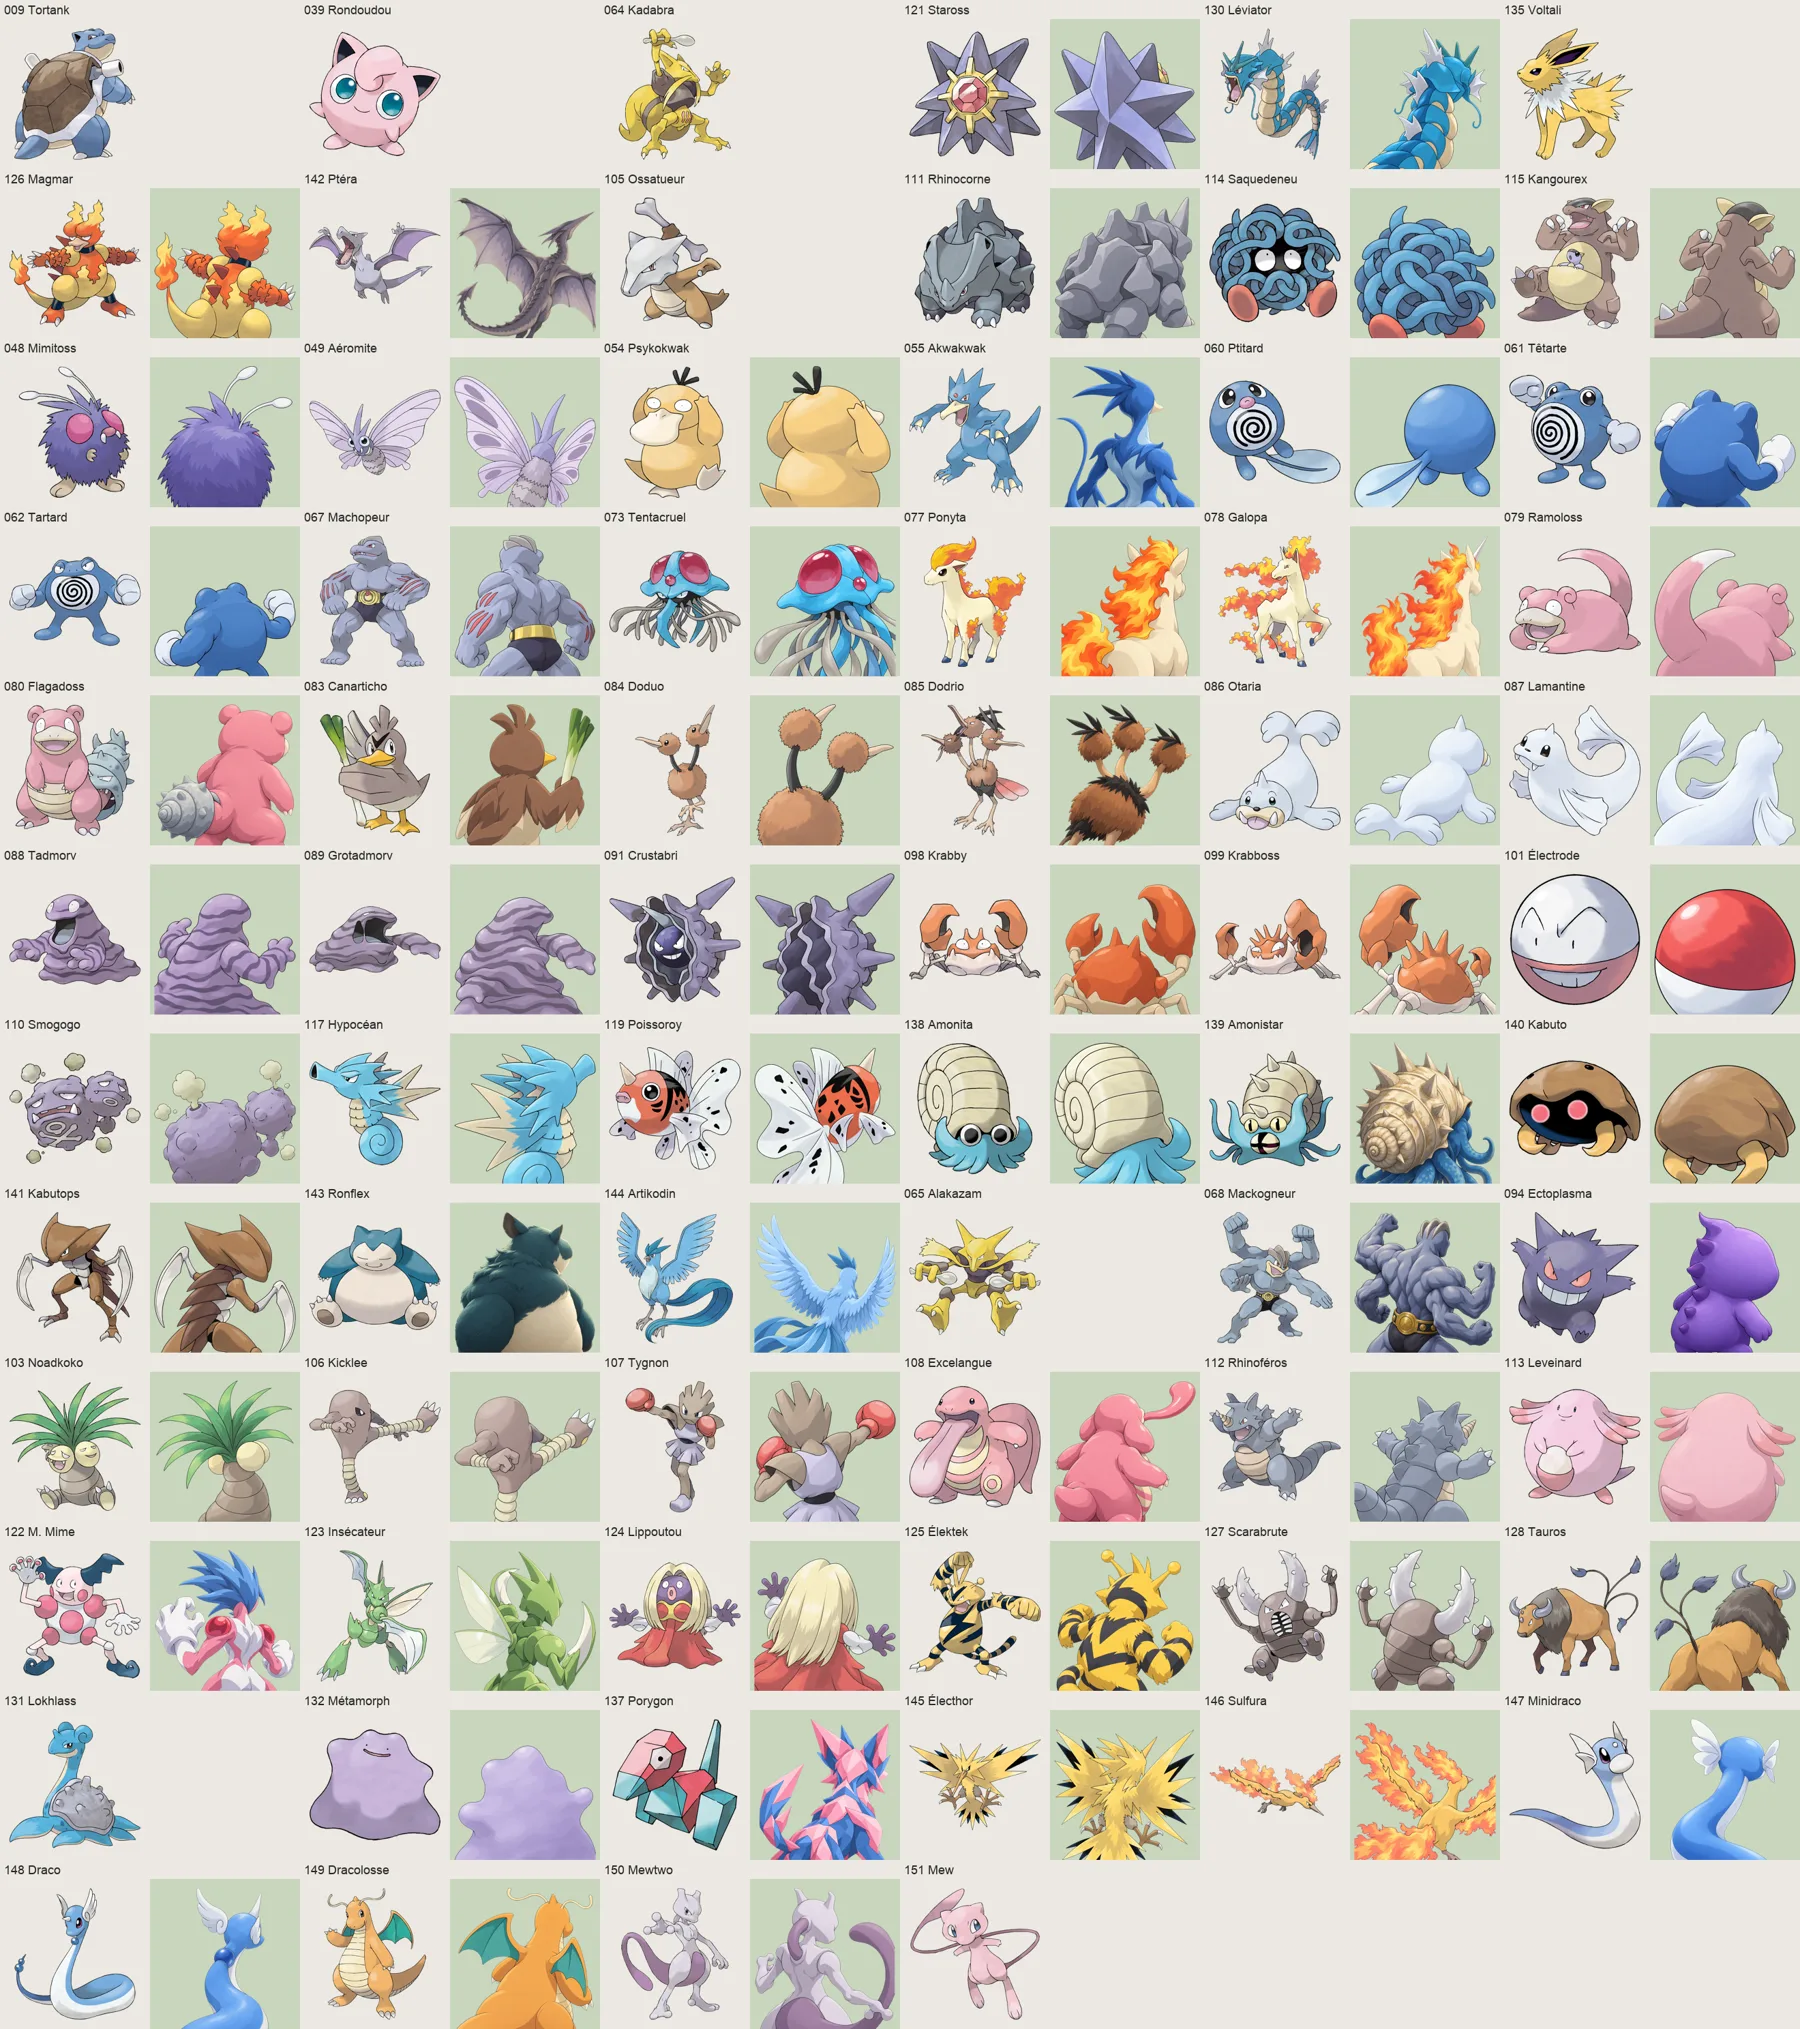
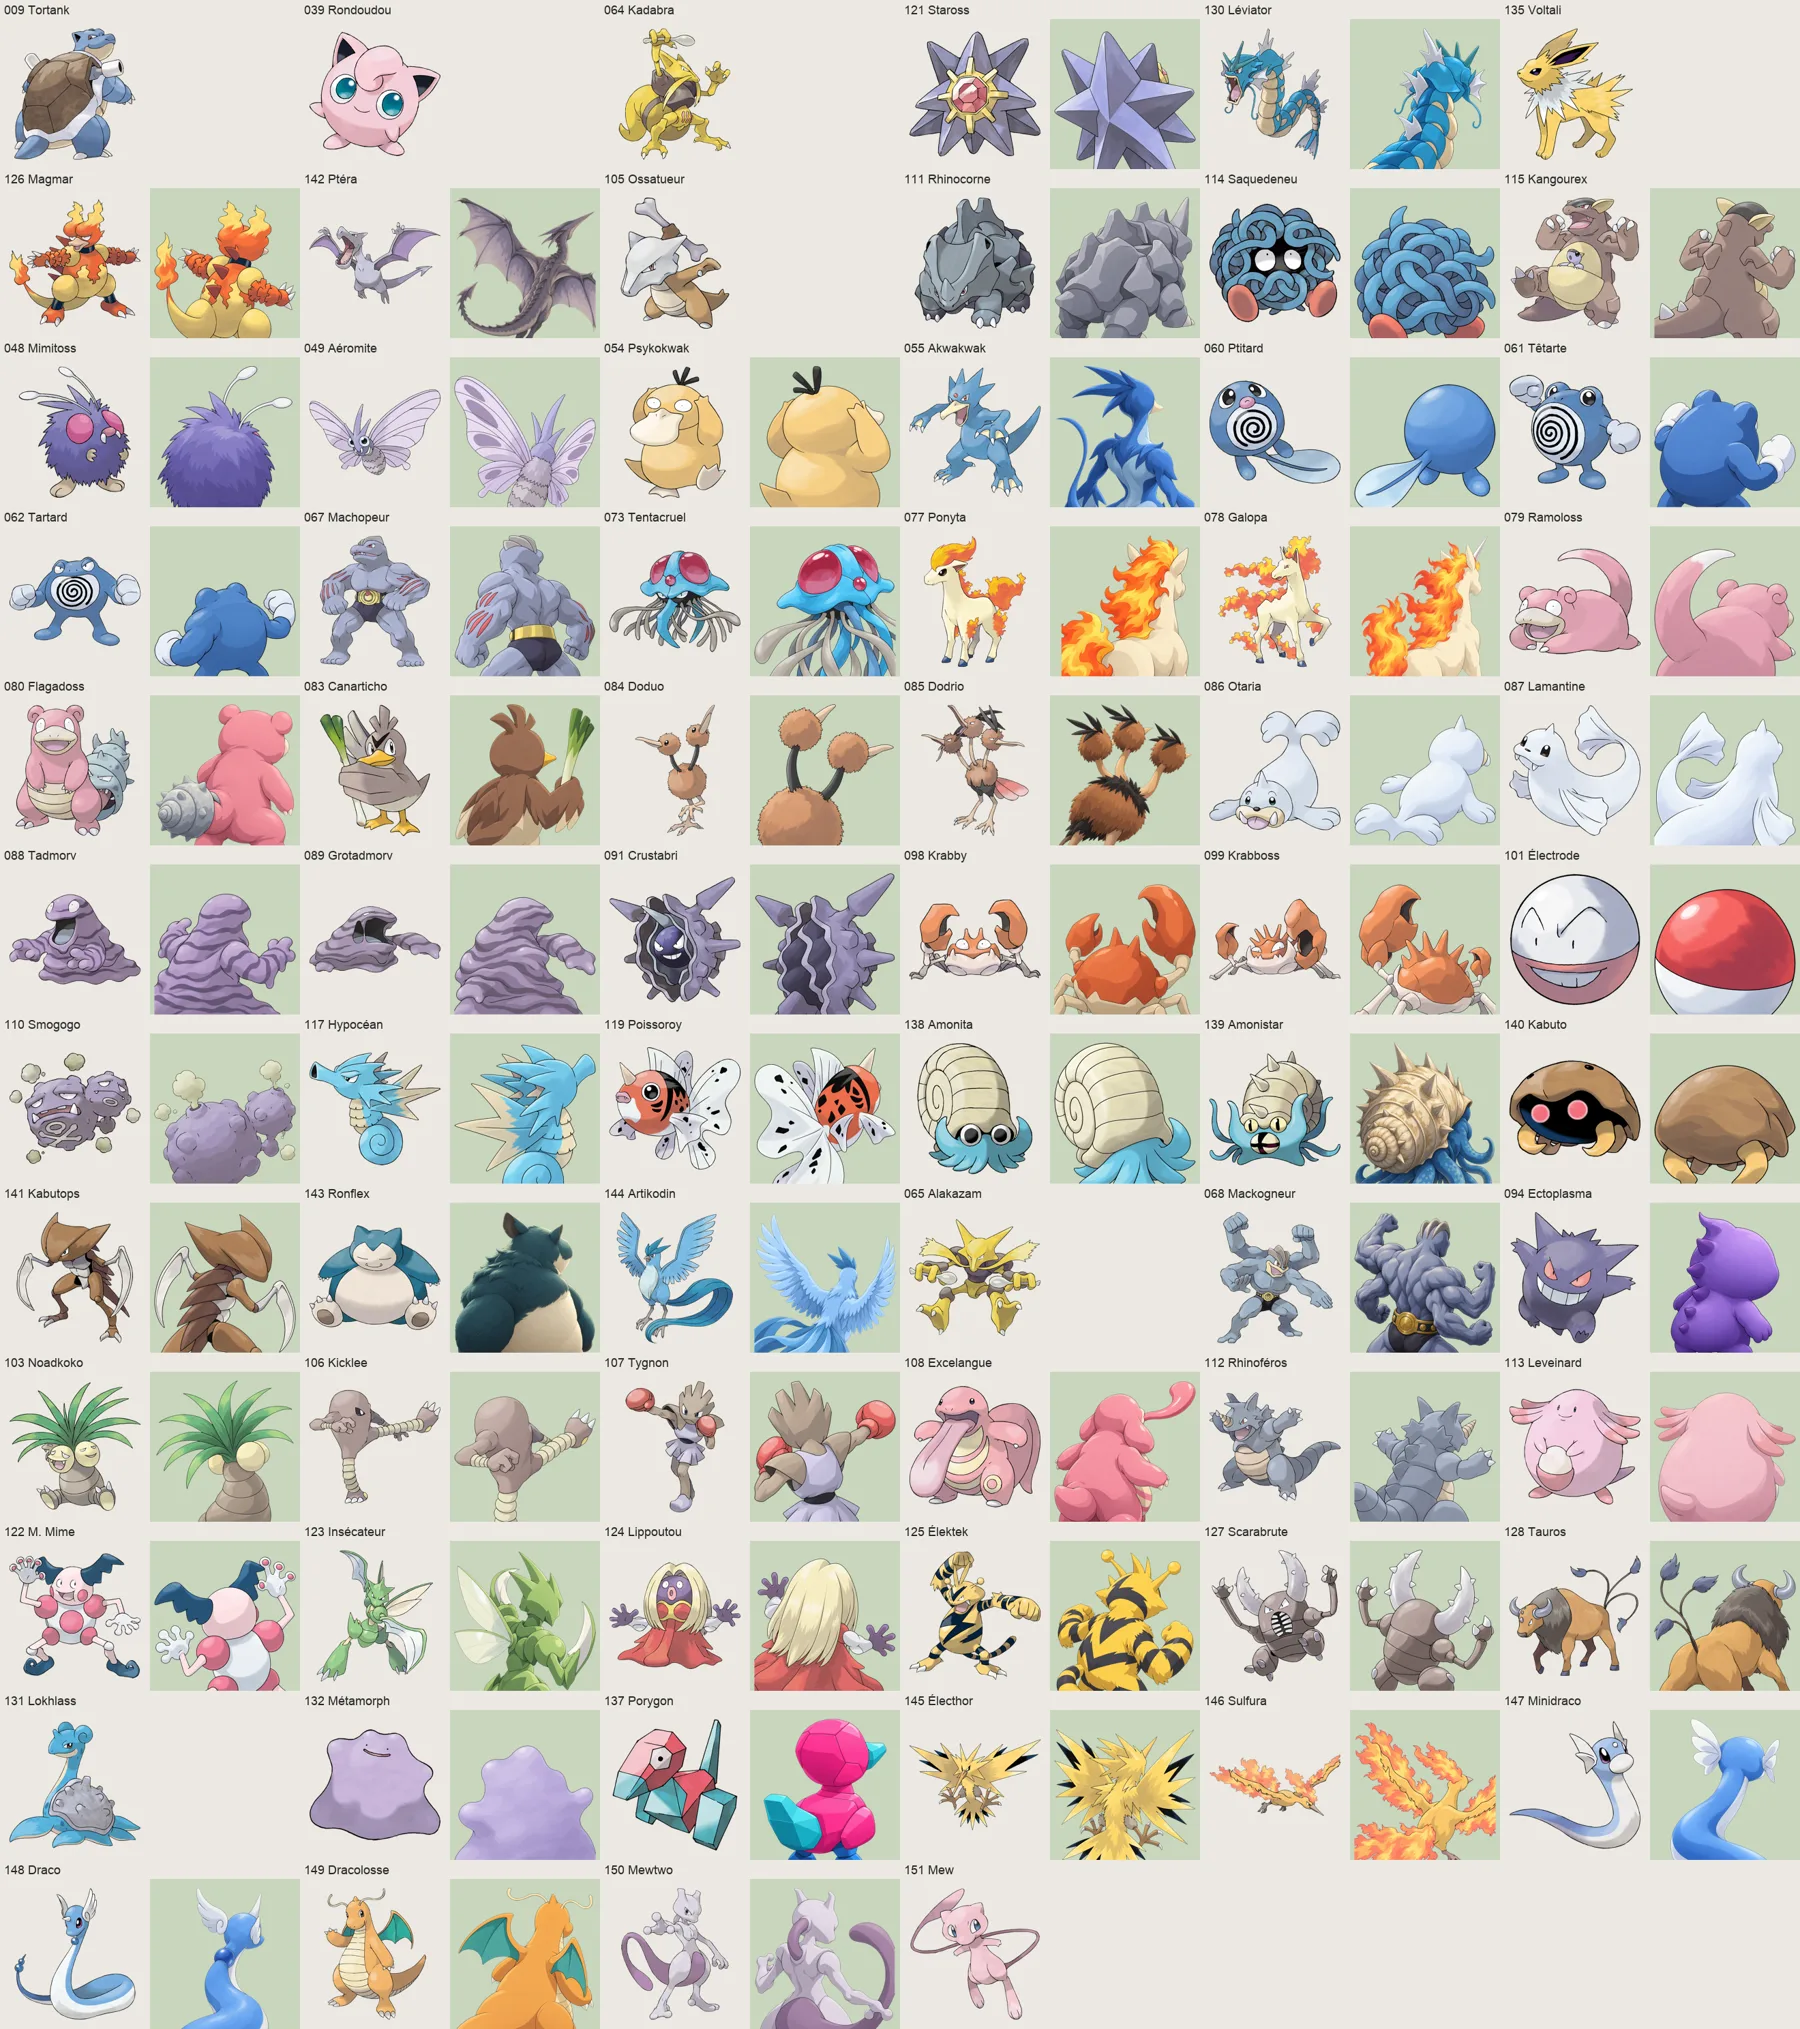
Art DAF.1 : planche des dos en plongée validée par Kevin ; Porygon (r5) et M. Mime (r7) refaits

Changed region(s): [[0.0622, 0.7452, 0.1867, 0.8383], [0.4044, 0.8383, 0.4978, 0.9315]]

diff --git a/tools/art/serie_dos_rb.py b/tools/art/serie_dos_rb.py
@@ -212,6 +212,22 @@ ANCRES = ("Image jointe : une illustration de face de la créature, comme réfé
 	"style seulement (on veut l'arrière).", "Aucune image jointe.", "Aucune image jointe.")
 ESSAIS = (1, 2, 3)
 
+## Révisions après relecture de la planche (Kevin, 2026-10-25 : « refais Porygon et M. Mime ») : sujet
+## corrigé -> nouveaux essais r4 (artwork joint), r5 (sans image), r6 (« design original ») ; elles priment.
+## Une liste de sujets = révisions successives (la 2e : r7 à r9, etc.).
+REVISIONS: dict[str, list[str]] = {
+	"PORYGON": [("petit canard-robot fait de quelques GROS BLOCS lisses et anguleux, comme un modèle 3D très simple "
+		"aux faces planes : corps et tête ROSE vif, bec et queue BLEU turquoise, pattes bleues ; formes nettes et "
+		"pleines, PAS de cristaux, PAS d'éclats, PAS de pointes fines")],
+	"M_MIME": [("humanoïde mince comme un mime de théâtre : tête ROSE ronde portant DEUX touffes de cheveux BLEUS "
+		"arrondies sur les côtés, corps blanc à gros boutons ronds ROSES (épaules, hanches), grosses mains "
+		"BLANCHES gantées aux doigts ronds, chaussures bleues recourbées"),
+		# 2e révision (r4 à r6 refusés) : sans « mime » ni « théâtre ».
+		("créature bipède fine et souriante au corps BLANC, grosse tête ROSE pâle avec deux petites touffes "
+		"BLEUES arrondies sur les côtés, de gros ronds ROSES sur les épaules et les hanches, grandes mains "
+		"BLANCHES arrondies levées comme pour toucher une vitre invisible, pieds bleus")],
+}
+
 ## Essais retenus après relecture de la planche (clé : identifiant, valeur : nom de l'essai).
 ## Par défaut : le plus petit r disponible.
 RETENUS: dict[str, str] = {}
@@ -221,13 +237,21 @@ def jointes(num: int, r: int) -> list[Path]:
 	return [OFFICIEL / f"{num:03d}.png"] if r == 1 else []
 
 
+def _rangs(ident: str) -> tuple[int, ...]:
+	"""Essais de la dernière révision (ceux qu'on lance et qu'on retient)."""
+	n = len(REVISIONS.get(ident, []))
+	return tuple(range(3 * n + 1, 3 * n + 4))
+
+
 def images() -> list[dict]:
 	liste = []
 	for ident, num, _fr, sujet in ESPECES:
-		for r in ESSAIS:
+		for r in range(1, 3 * len(REVISIONS.get(ident, [])) + 4):
+			k = (r - 1) % 3 + 1  # motif de l'essai (avec / sans image)
+			texte = REVISIONS[ident][(r - 1) // 3 - 1] if r > 3 else sujet
 			liste.append({"ident": ident, "num": num, "r": r, "nom": f"DOSRB_{ident}_r{r}",
-				"fichier": PROMPTS / f"DOSRB_{ident}_r{r}.txt", "jointes": jointes(num, r),
-				"texte": DOS_RB.format(nom=NOM[r - 1], ancres=ANCRES[r - 1], sujet=sujet)})
+				"fichier": PROMPTS / f"DOSRB_{ident}_r{r}.txt", "jointes": jointes(num, k),
+				"texte": DOS_RB.format(nom=NOM[k - 1], ancres=ANCRES[k - 1], sujet=texte)})
 	return liste
 
 
@@ -259,7 +283,7 @@ def _essai(im: dict) -> bool:
 
 
 def _espece(ident: str) -> bool:
-	return any(_essai(im) for im in images() if im["ident"] == ident)
+	return any(_essai(im) for im in images() if im["ident"] == ident and im["r"] in _rangs(ident))
 
 
 def generer(noms: list[str]) -> None:
@@ -278,7 +302,7 @@ def retenu(ident: str) -> Path | None:
 		return chat
 	if ident in RETENUS:
 		return ART / f"{RETENUS[ident]}.png"
-	for r in ESSAIS:
+	for r in _rangs(ident):
 		p = ART / f"DOSRB_{ident}_r{r}.png"
 		if p.exists():
 			return p
@@ -353,7 +377,7 @@ def ajouter(ident: str, fichier: str) -> None:
 
 def liste() -> None:
 	for ident, num, fr, _s in ESPECES:
-		etat = " ".join(f"r{r}:{'ok' if (ART / f'DOSRB_{ident}_r{r}.png').exists() else '--'}" for r in ESSAIS)
+		etat = " ".join(f"r{r}:{'ok' if (ART / f'DOSRB_{ident}_r{r}.png').exists() else '--'}" for r in _rangs(ident))
 		print(f"{num:03d} {fr:<12} {etat}  retenu={retenu(ident).name if retenu(ident) else '-'}")
 
 

diff --git a/docs/design/fiches-assets/dos-cadrage-rb/a-valider-et-chatgpt.md b/docs/design/fiches-assets/dos-cadrage-rb/a-valider-et-chatgpt.md
@@ -1,11 +1,15 @@
-# Dos en plongée (cadrage B) : planche à valider et 8 dos à faire avec ChatGPT
+# Dos en plongée (cadrage B) : planche validée et 8 dos à faire avec ChatGPT
 
 > 2026-10-25, DAF.1. Outil `tools/art/serie_dos_rb.py`, prompts `tools/art/prompts/serie_dos_rb/`.
 > Branche `art-dos-rb` : les 62 dos sont intégrés (`assets/sprites/pokemon/dos/dos_rb_NNN.png`) et
 > lus par le jeu, tests ciblés verts ; **pas encore dans `main`** (attend la validation de la planche,
 > arbitrage DA-6).
 
-## 1. Planche à valider
+## 1. Planche
+
+**Validée par Kevin le 2026-10-25** : « Je valide la planche ; refais Porygon et M. Mime, garde
+Ronflex ». Porygon refait en r5 (blocs lisses, sans éclats), M. Mime en r7 (2e révision : r4 à r6
+refusés) ; planche mise à jour.
 
 `planche-dos-rb-62.webp` (face officielle | dos en plongée) ; captures en jeu (2340 × 1080) de
 Machopeur, Ronflex, Krabby, Léviator, Artikodin et Tentacruel relues : coupe nette au bord bas,
